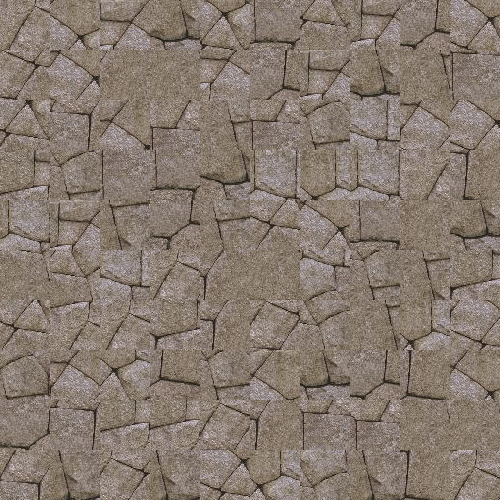
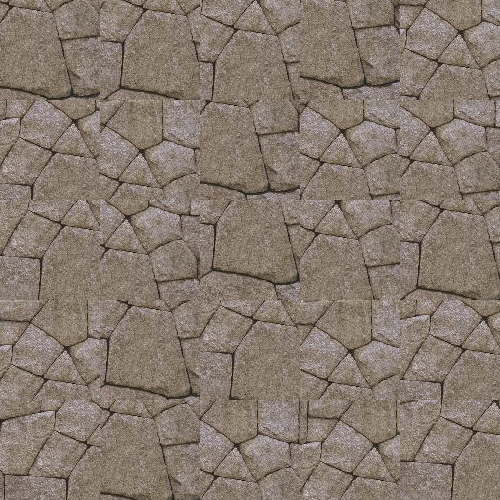
debugging quilt_simple

diff --git a/src/quilting_main.cpp b/src/quilting_main.cpp
@@ -3,57 +3,57 @@
 //#include <math.h>
 using namespace std;
 
-//test texture synthesis with random quilting
+//test planksure synthesis with random quilting
 void testRandomQuilting()
 {
     FloatImage stones_sample(DATA_DIR "/input/stones.png");
     FloatImage mat_sample(DATA_DIR "/input/mat.png");
-    FloatImage text_sample(DATA_DIR "/input/text.png");
+    FloatImage planks_sample(DATA_DIR "/input/planks.png");
     FloatImage apples_sample(DATA_DIR "/input/apples.png");
-    FloatImage green_sample(DATA_DIR "/input/green.png");
+    FloatImage toast_sample(DATA_DIR "/input/toast.png");
     
     int outsize = 500;
-    int patchsize = 50;
+    int patchsize = 100;
 
     FloatImage stones_random = quilt_random(stones_sample, outsize, patchsize);
     FloatImage mat_random = quilt_random(mat_sample, outsize, patchsize);
-    // FloatImage text_random = quilt_random(text_sample, outsize, patchsize);
+    FloatImage planks_random = quilt_random(planks_sample, outsize, patchsize);
     FloatImage apples_random = quilt_random(apples_sample, outsize, patchsize);
-    FloatImage green_random = quilt_random(green_sample, outsize, patchsize);
+    FloatImage toast_random = quilt_random(toast_sample, outsize, patchsize);
 
-    // stones_random.write(DATA_DIR "/output/stones_random_synthesis.png");
+    stones_random.write(DATA_DIR "/output/stones_random_synthesis.png");
     mat_random.write(DATA_DIR "/output/mat_random_synthesis.png");
-    // text_random.write(DATA_DIR "/output/text_random_synthesis.png");
+    planks_random.write(DATA_DIR "/output/planks_random_synthesis.png");
     apples_random.write(DATA_DIR "/output/apples_random_synthesis.png");
-    green_random.write(DATA_DIR "/output/green_random_synthesis.png");
+    toast_random.write(DATA_DIR "/output/toast_random_synthesis.png");
 }
 
-// //test texture synthesis with simple quilting (overlapping method)
+// //test planksure synthesis with simple quilting (overlapping method)
 void testSimpleQuilting()
 {
     FloatImage stones_sample(DATA_DIR "/input/stones.png");
     FloatImage mat_sample(DATA_DIR "/input/mat.png");
-    FloatImage text_sample(DATA_DIR "/input/text.png");
+    FloatImage planks_sample(DATA_DIR "/input/planks.png");
     FloatImage apples_sample(DATA_DIR "/input/apples.png");
-    //FloatImage green_sample(DATA_DIR "/input/green.png");
+    FloatImage toast_sample(DATA_DIR "/input/toast.png");
 
-    int outsize=500;
-    int patchsize=50;
-    float tol = .001;
-    int overlap = 5;
+    // int outsize=500;
+    // int patchsize=100;
+    // float tol = .001;
+    // int overlap = 20;
 
 
-    //FloatImage stones_simple = quilt_simple(stones_sample, outsize, patchsize, overlap, tol);
-    FloatImage mat_simple = quilt_simple(mat_sample, outsize, patchsize, overlap, tol);
-    //FloatImage text_simple = quilt_simple(text_sample, outsize, patchsize, overlap, tol);
-    FloatImage apples_simple = quilt_simple(apples_sample, outsize, patchsize, overlap, tol);
-    //FloatImage green_simple = quilt_simple(green_sample, outsize, patchsize, overlap, tol);
+    //FloatImage stones_simple = quilt_simple(stones_sample, 500, 100, 10, 0.2);
+    //FloatImage mat_simple = quilt_simple(mat_sample, outsize, patchsize, overlap, tol);
+    FloatImage planks_simple = quilt_simple(planks_sample, 500, 100, 5, 0.0001);
+    FloatImage apples_simple = quilt_simple(apples_sample, 500, 75, 5, 0.001);
+    FloatImage toast_simple = quilt_simple(toast_sample, 500, 100, 20, 0.01);
 
     //stones_simple.write(DATA_DIR "/output/stones_simple.png");
-    mat_simple.write(DATA_DIR "/output/mat_simple.png");
-    //text_simple.write(DATA_DIR "/output/text_simple.png");
+    //mat_simple.write(DATA_DIR "/output/mat_simple.png");
+    planks_simple.write(DATA_DIR "/output/planks_simple.png");
     apples_simple.write(DATA_DIR "/output/apples_simple.png");
-    //green_simple.write(DATA_DIR "/output/green_simple.png");
+    toast_simple.write(DATA_DIR "/output/toast_simple.png");
 }
 
 int main()

diff --git a/src/quilting.cpp b/src/quilting.cpp
@@ -100,11 +100,10 @@ FloatImage quilt_simple(const FloatImage &sample, int out_size, int patch_size, 
     // Loop over output image in increments of (patch size - overlap) (making sure patches don't go out of bounds)
     for (int out_x = 0; out_x < output.width() - patch_size; out_x += patch_size - overlap) {
        for (int out_y = 0; out_y < output.height() - patch_size; out_y += patch_size - overlap) {
-            cout << "looping over output image at " << "(" << out_x << ", " << out_y << ")" << endl;
+            cout << "Current position in output image is " << "(" << out_x << ", " << out_y << ")" << endl;
 
             // Vector that holds SSD values of all selected patches
             vector<float> SSD_values;
-
 
             // Loop over all selected patches
             for (int i = 0; i < patches.size(); i++){
@@ -144,14 +143,13 @@ FloatImage quilt_simple(const FloatImage &sample, int out_size, int patch_size, 
                 
                 // Record SSD for this patch
                 SSD_values.push_back(patch_SSD);
-                //cout << "SSD:values at" << i << "=" << patch_SSD << endl;
+                //cout << "SSD value for patch " << i << " is " << patch_SSD << endl;
 				
             }
             
             // find the lowest values in SSD_values given by tol (tolerance)
             // randomly select one of those values, store the corresponding (x, y) in variables best_pat_x, best_pat_y
     
-
 			// repeatedly take the next smallest SSD and put the corresponding patch into a new vector (best patches)
 			vector<vector<int>> best_patches; 
 
@@ -165,13 +163,12 @@ FloatImage quilt_simple(const FloatImage &sample, int out_size, int patch_size, 
 					}
 				}
 				best_patches.push_back(patches[min_idx]);
-                cout << SSD_values[min_idx] << endl;
+                cout << "Considering patch with SSD " << SSD_values[min_idx] << endl;
 				SSD_values[min_idx] = 1e7; // remove it from consideration
 			}
 
 			// randomly pick the index of ONE of the best patches 
 			int rand_idx = rand() % (int)(best_patches.size());
-
             
             if (first) { // for debugging
             if (out_x > 0 || out_y > 0) {
